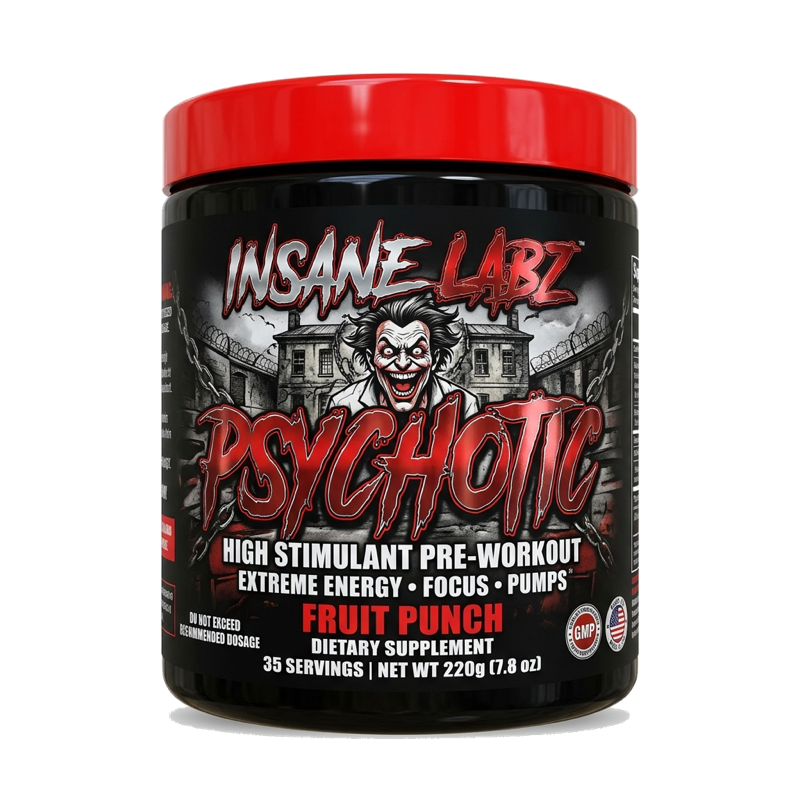
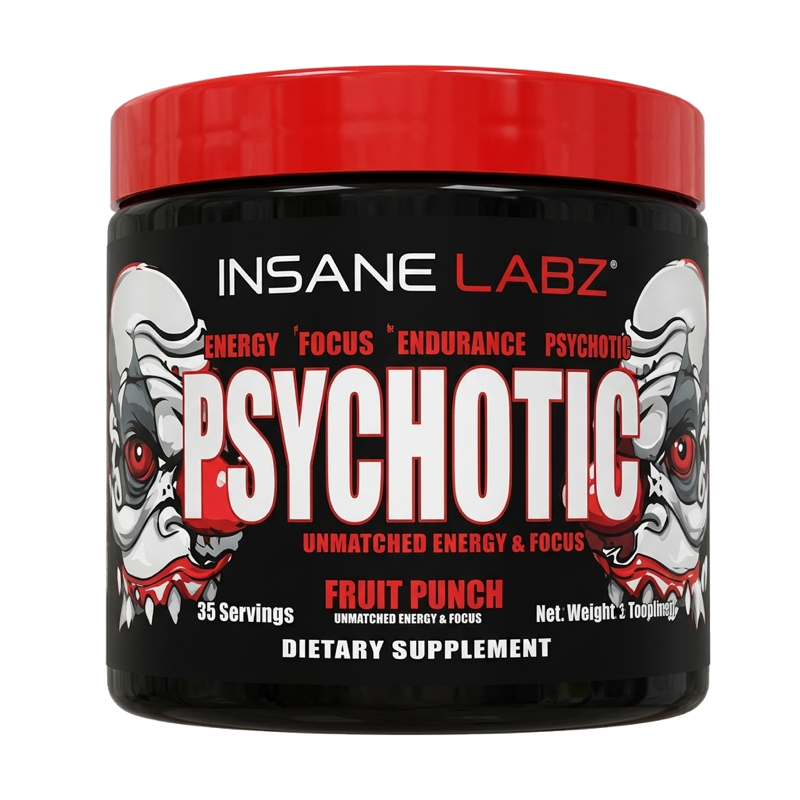
feat(v5.7): update Insane Labz Psychotic product image to exact two-clowns edition with transparent background

diff --git a/index.html b/index.html
@@ -25,7 +25,7 @@
     <meta name="twitter:description" content="Proteínas Whey, Creatina Pura 200 Mesh y Pre-entreno Berserk. Elige tu bando: Luz o Oscuridad.">
     <meta name="twitter:image" content="assets/images/logo-oscuridad.png">
 
-    <link rel="stylesheet" href="css/styles.css?v=5.6">
+    <link rel="stylesheet" href="css/styles.css?v=5.7">
 
     <!-- Pre-detección de bando guardado: ingreso directo sin parpadeo del Gateway -->
     <script>
@@ -1220,6 +1220,6 @@
     </a>
 
     <!-- ARCHIVO JS MODULAR -->
-    <script src="js/app.js?v=5.6" defer></script>
+    <script src="js/app.js?v=5.7" defer></script>
 </body>
 </html>

diff --git a/js/app.js b/js/app.js
@@ -254,7 +254,7 @@ const DEFAULT_INDIVIDUAL_PRODUCTS = [
         id: 106, 
         name: "Pre-Entreno Insane Labz Psychotic", 
         emoji: "🔥", 
-        customImage: "assets/images/prod-psychotic.png?v=5.6",
+        customImage: "assets/images/prod-psychotic.png?v=5.7",
         tubType: "preworkout",
         tubLabel: "PSYCHOTIC",
         tubSub: "INSANE LABZ",
